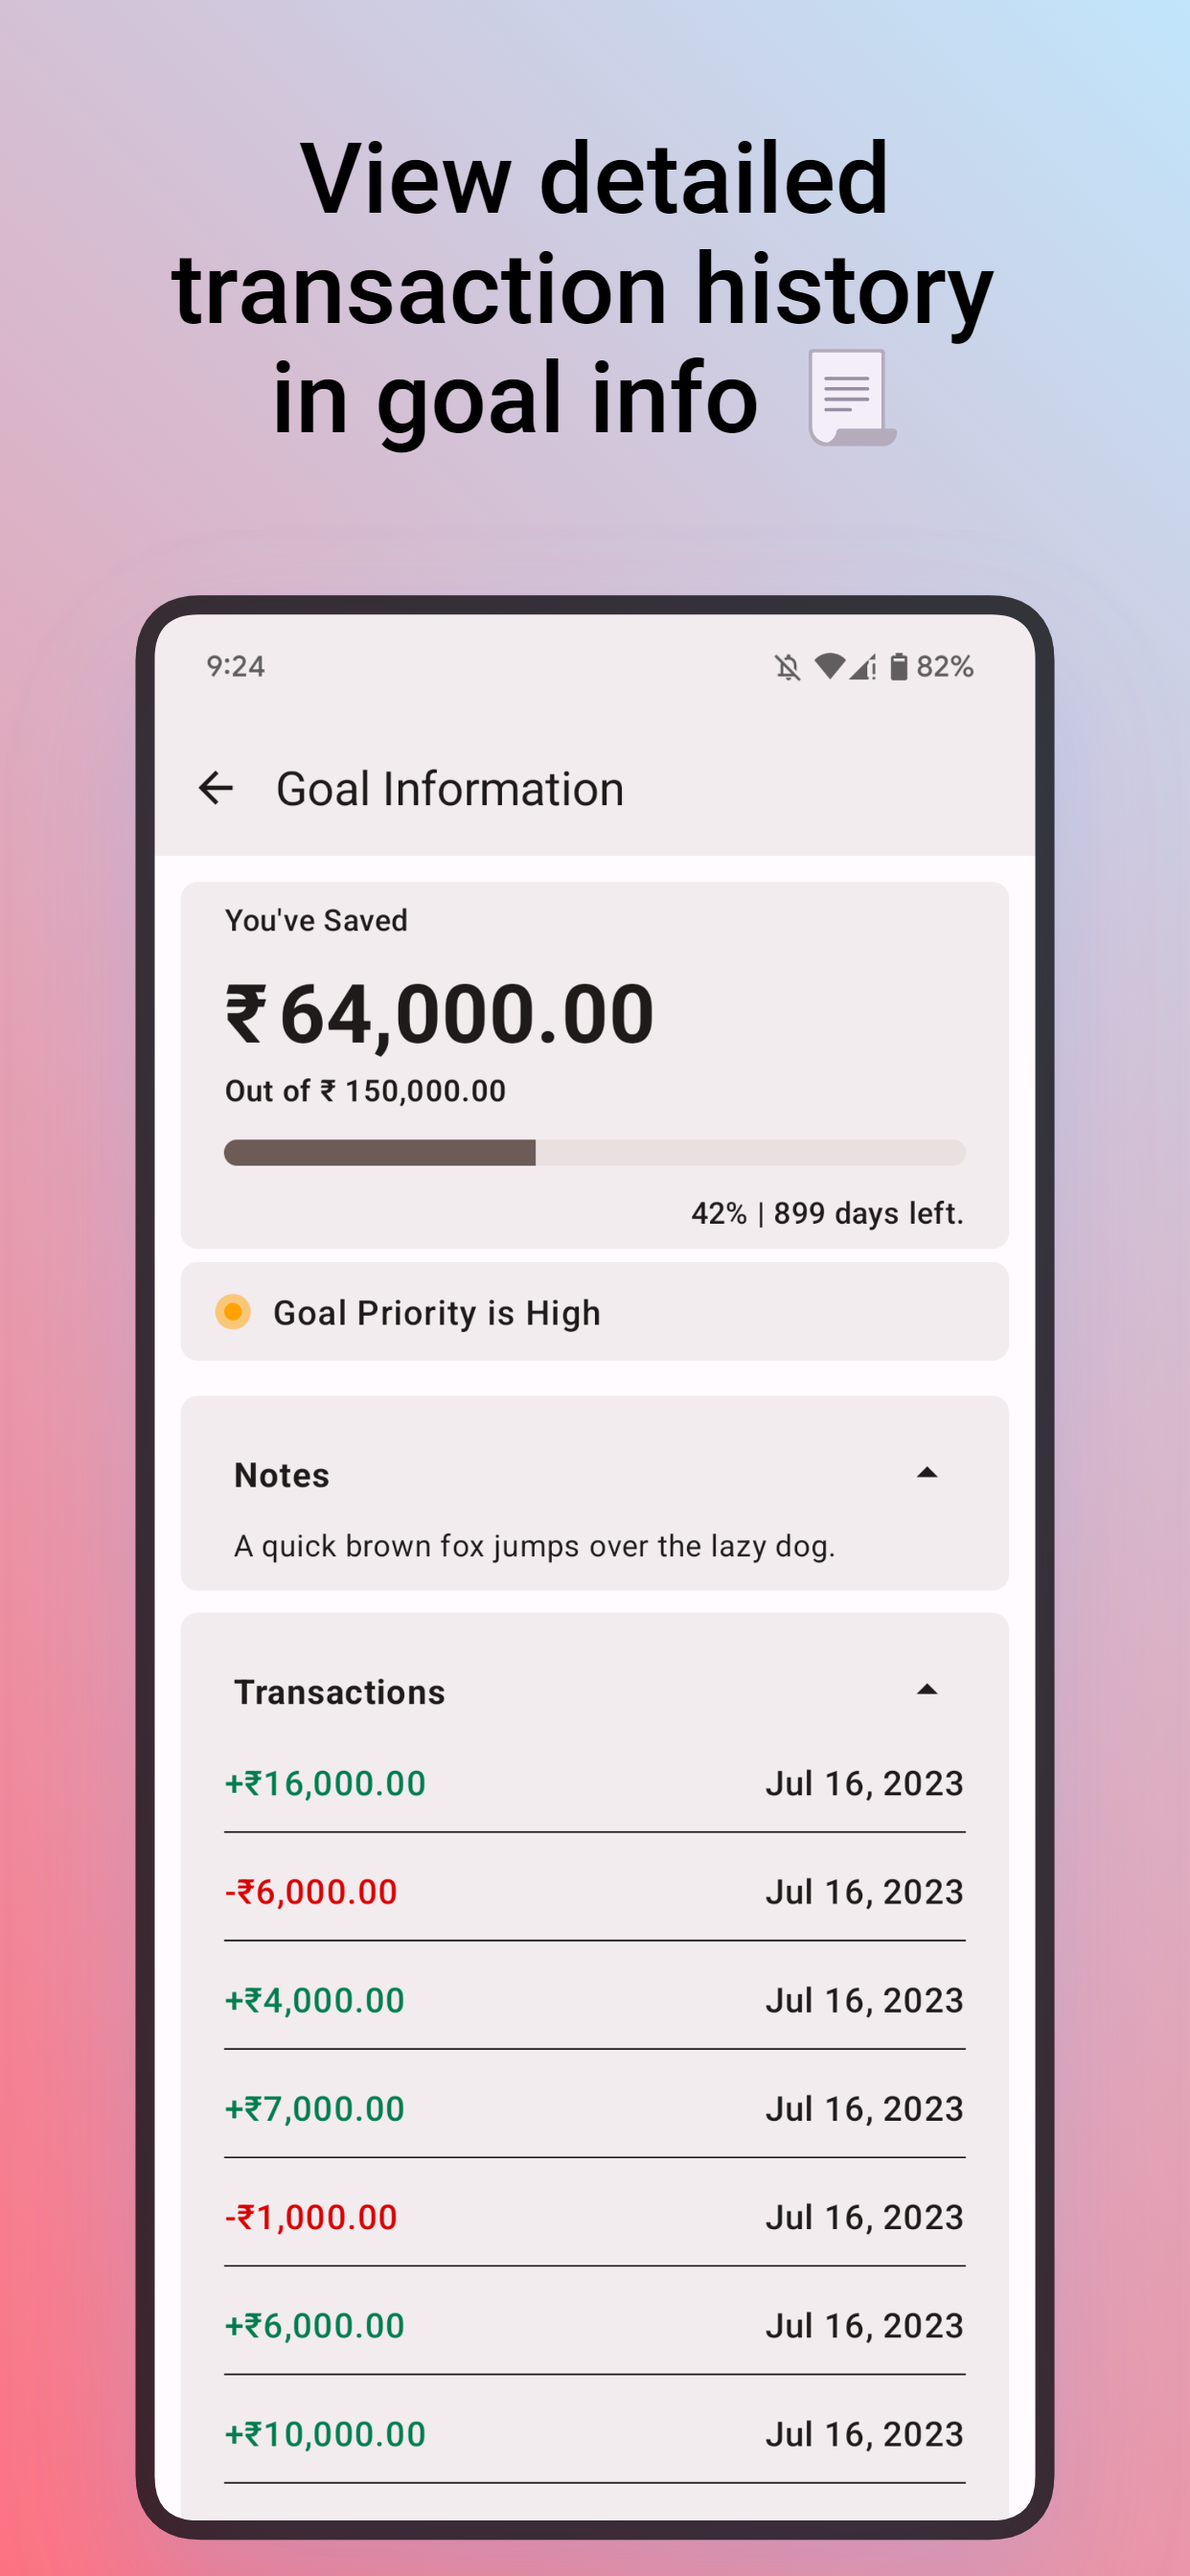
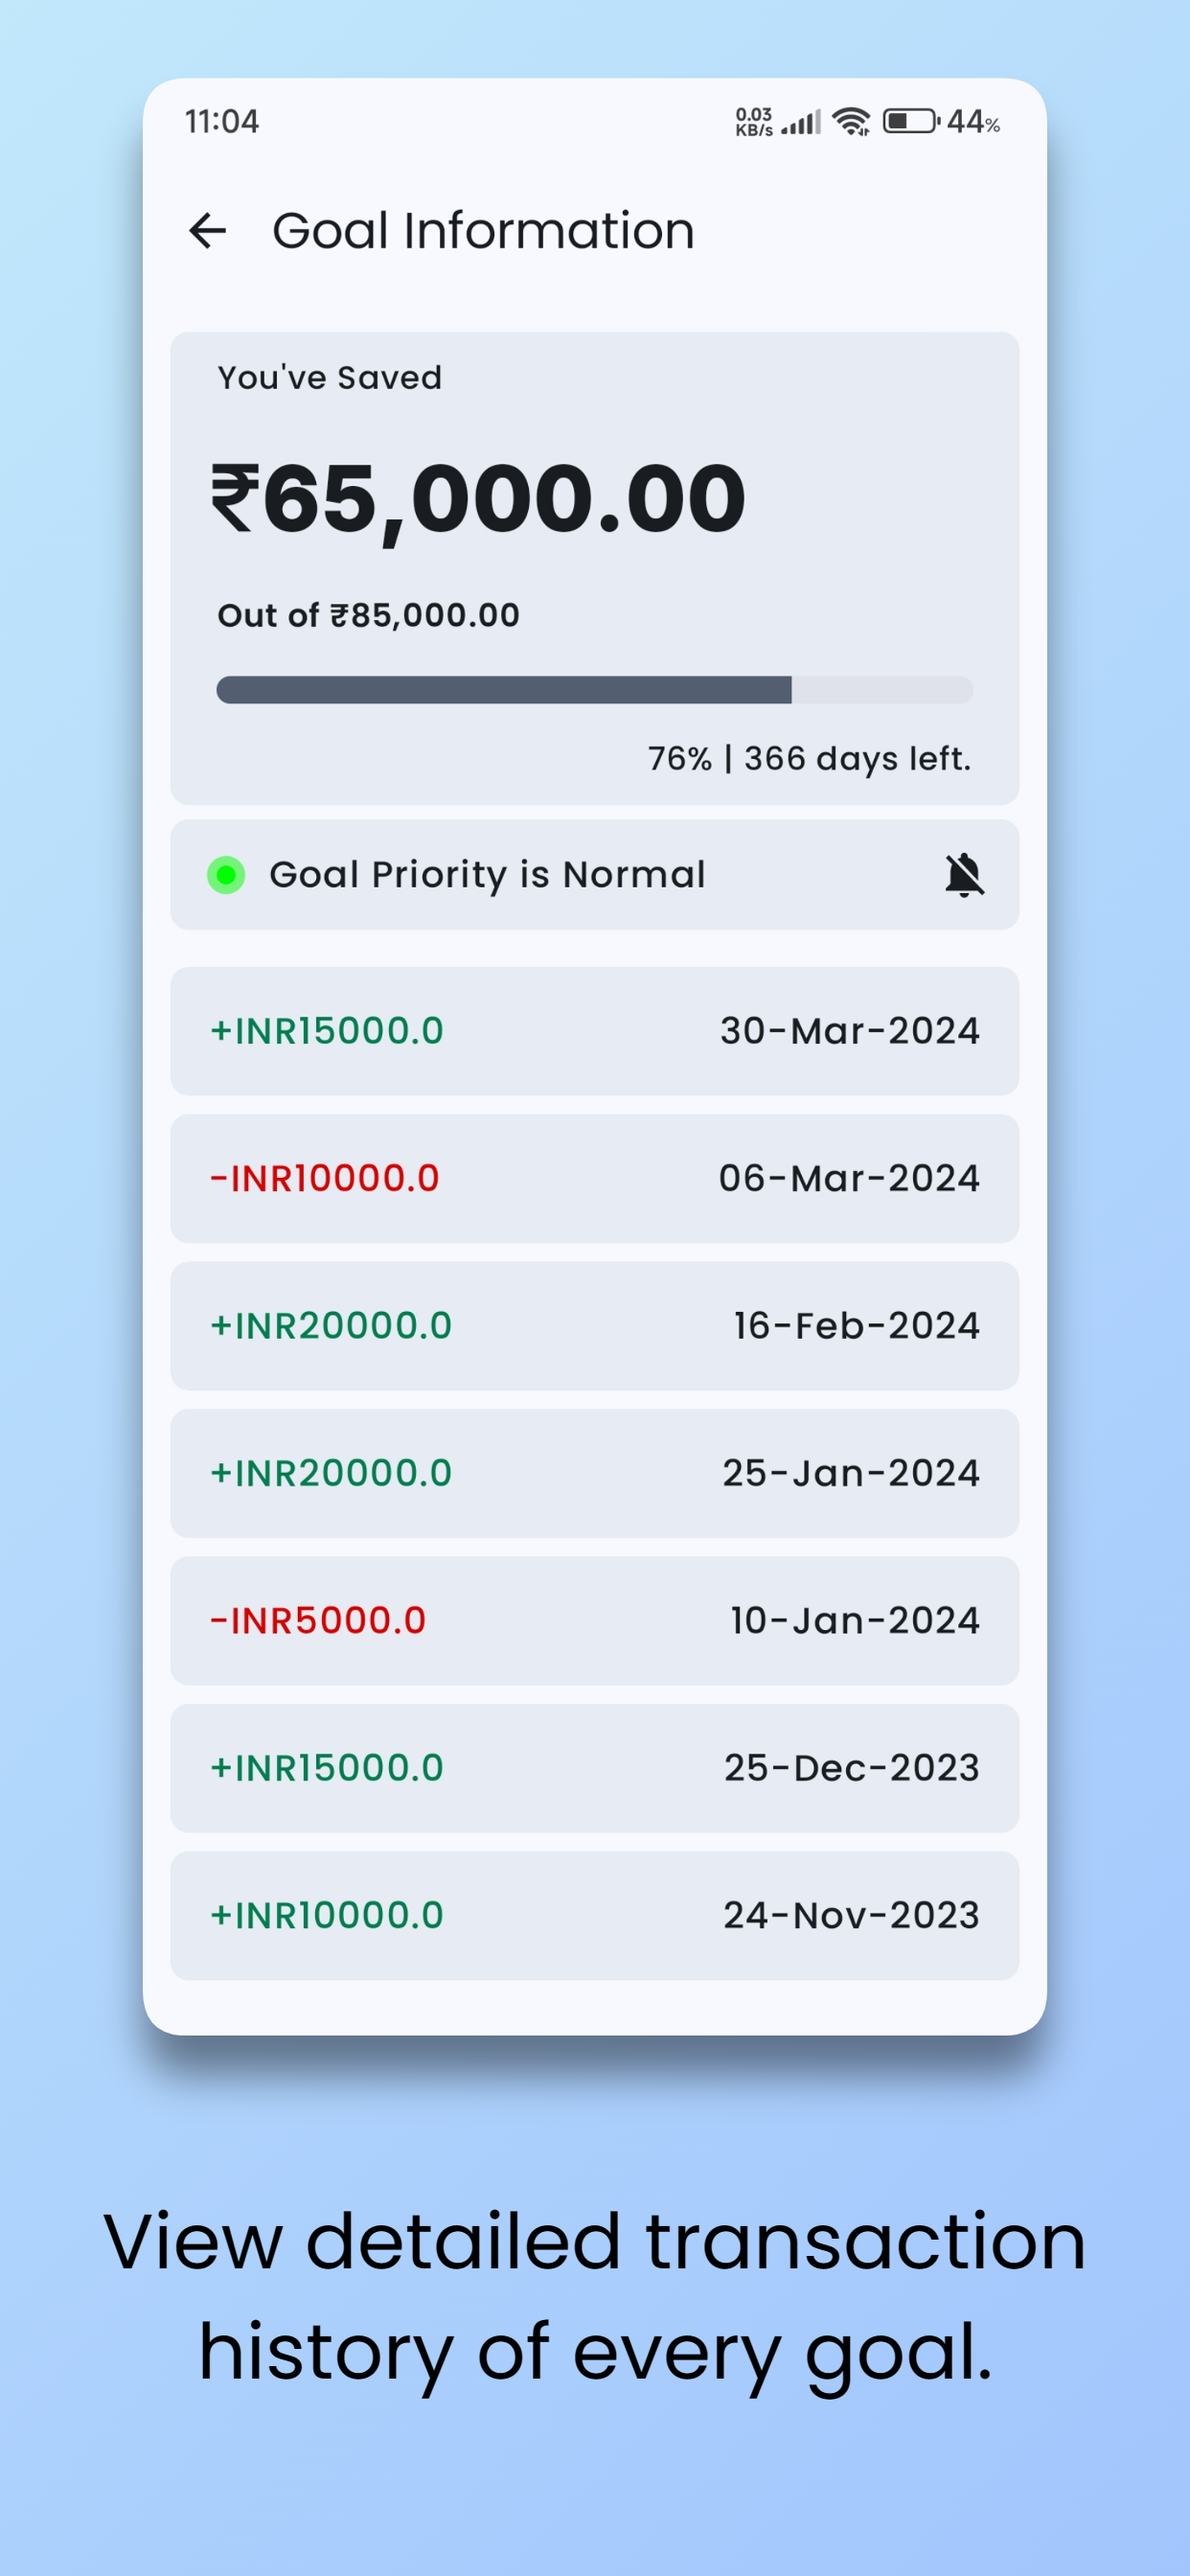
Bump version

diff --git a/README.md b/README.md
@@ -9,7 +9,7 @@
 
 <p align="center">
   <a href="https://t.me/PotApps"><img src="https://img.shields.io/badge/Telegram-PotApps-green?style=flat&logo=telegram"/></a>
-  <a href="https://github.com/Pool-Of-Tears/GreenStash/releases"><img src="https://img.shields.io/github/downloads/Pool-Of-Tears/GreenStash/total?label=Downloads&logo=github"</img></a>
+  <a href="https://github.com/Pool-Of-Tears/GreenStash/releases"><img src="https://img.shields.io/github/downloads/Pool-Of-Tears/GreenStash/total?label=Downloads&logo=github"></img></a>
   <img alt="GitHub" src="https://img.shields.io/github/license/Pool-Of-Tears/GreenStash">
   <img alt="GitHub code size in bytes" src="https://img.shields.io/github/languages/code-size/Pool-Of-Tears/GreenStash">
   <a href="https://www.repostatus.org/#active"><img src="https://www.repostatus.org/badges/latest/active.svg" alt="Project Status: Active – The project has reached a stable, usable state and is being actively developed." /></a>
@@ -24,9 +24,9 @@
 
 <h2 align="center">Screenshots</h2>
 
-| ![](https://te.legra.ph/file/62e0a71bfbba51aa64f44.png) | ![](https://te.legra.ph/file/396f07eebc3cacae8da48.png) | ![](https://te.legra.ph/file/9754841ed1b6f9c4bdb89.png) |
-|-------------------------------------------------------|-------|-------------------------------------------------------|
-| ![](https://te.legra.ph/file/9e135107db6a8d3acc758.png) | ![](https://te.legra.ph/file/8fae219ae0dfc8d5ae178.png) | ![](https://te.legra.ph/file/12596309941afd16cf5a6.png) |
+| ![](https://te.legra.ph/file/0e02039099c0b4d019717.png) | ![](https://te.legra.ph/file/3dbaf2f978fe5043ee5da.png) | ![](https://te.legra.ph/file/e48e419452ce760f74ff3.png) |
+|---------------------------------------------------------|---------------------------------------------------------|---------------------------------------------------------|
+| ![](https://te.legra.ph/file/ee5fb4975abd7b8f76609.png) | ![](https://te.legra.ph/file/49fb67b2232b09978f57e.png) | ![](https://te.legra.ph/file/6d5e04a162a39c4d09bf3.png) |
 
 ------
 
@@ -49,10 +49,10 @@
 <h2 align="center">Downloads</h2>
 
 <div align="center">
-<a href="https://play.google.com/store/apps/details?id=com.starry.greenstash"><img alt="Get it on Google Play" src="https://play.google.com/intl/en_us/badges/images/generic/en_badge_web_generic.png" height="65"</img></a>
+<a href="https://play.google.com/store/apps/details?id=com.starry.greenstash"><img alt="Get it on Google Play" src="https://play.google.com/intl/en_us/badges/images/generic/en_badge_web_generic.png" height="65"></img></a>
 <a href='https://f-droid.org/packages/com.starry.greenstash/'><img alt='Get it on F-Droid' src='https://fdroid.gitlab.io/artwork/badge/get-it-on.png' height='65'/></a>
 <a href='https://apt.izzysoft.de/fdroid/index/apk/com.starry.greenstash'><img alt='Get it on IzzyOnDroid' src='https://gitlab.com/IzzyOnDroid/repo/-/raw/master/assets/IzzyOnDroid.png' height='65'/></a>
-<a href="https://github.com/Pool-Of-Tears/GreenStash/releases/latest"><img alt="Get it on GitHub" src="https://github.com/machiav3lli/oandbackupx/blob/034b226cea5c1b30eb4f6a6f313e4dadcbb0ece4/badge_github.png" height="65"</img></a>
+<a href="https://github.com/Pool-Of-Tears/GreenStash/releases/latest"><img alt="Get it on GitHub" src="https://github.com/machiav3lli/oandbackupx/blob/034b226cea5c1b30eb4f6a6f313e4dadcbb0ece4/badge_github.png" height="65"></img></a>
 </div>
 
 ------
